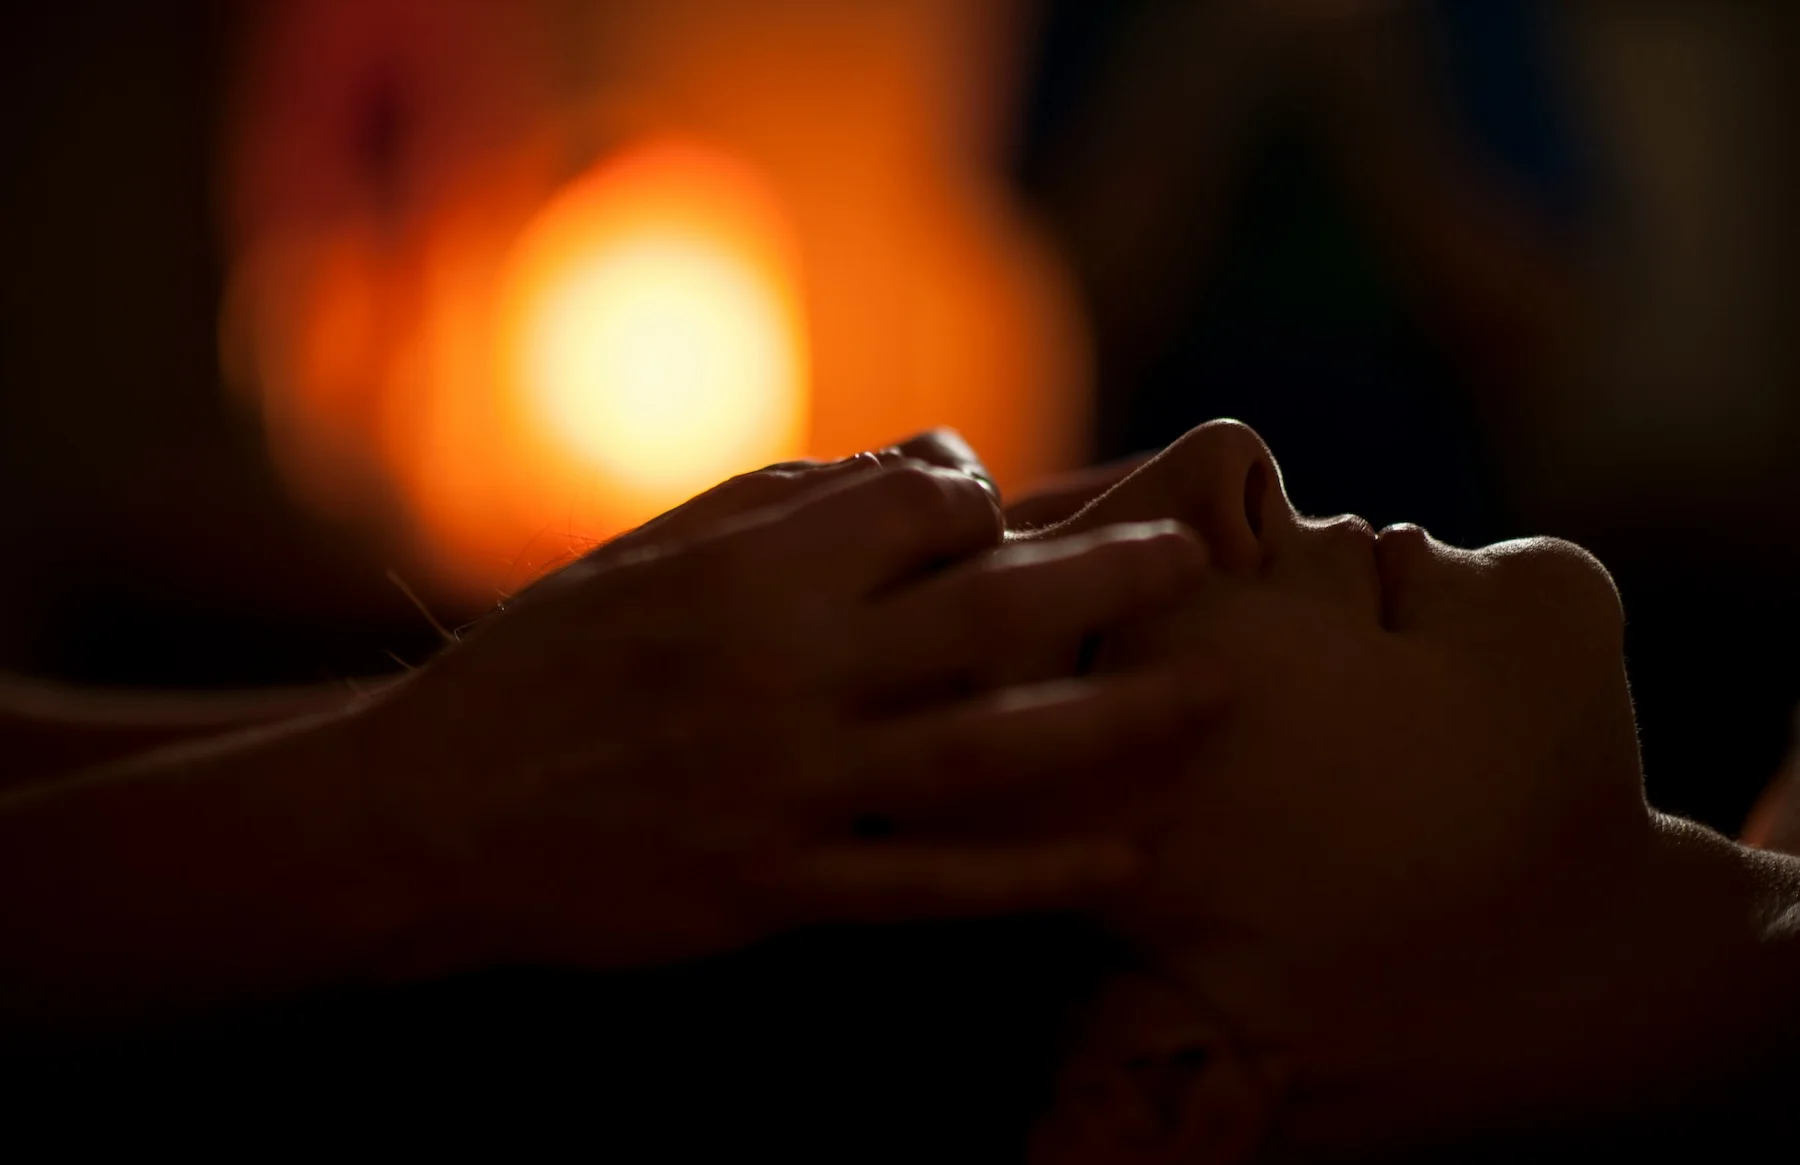
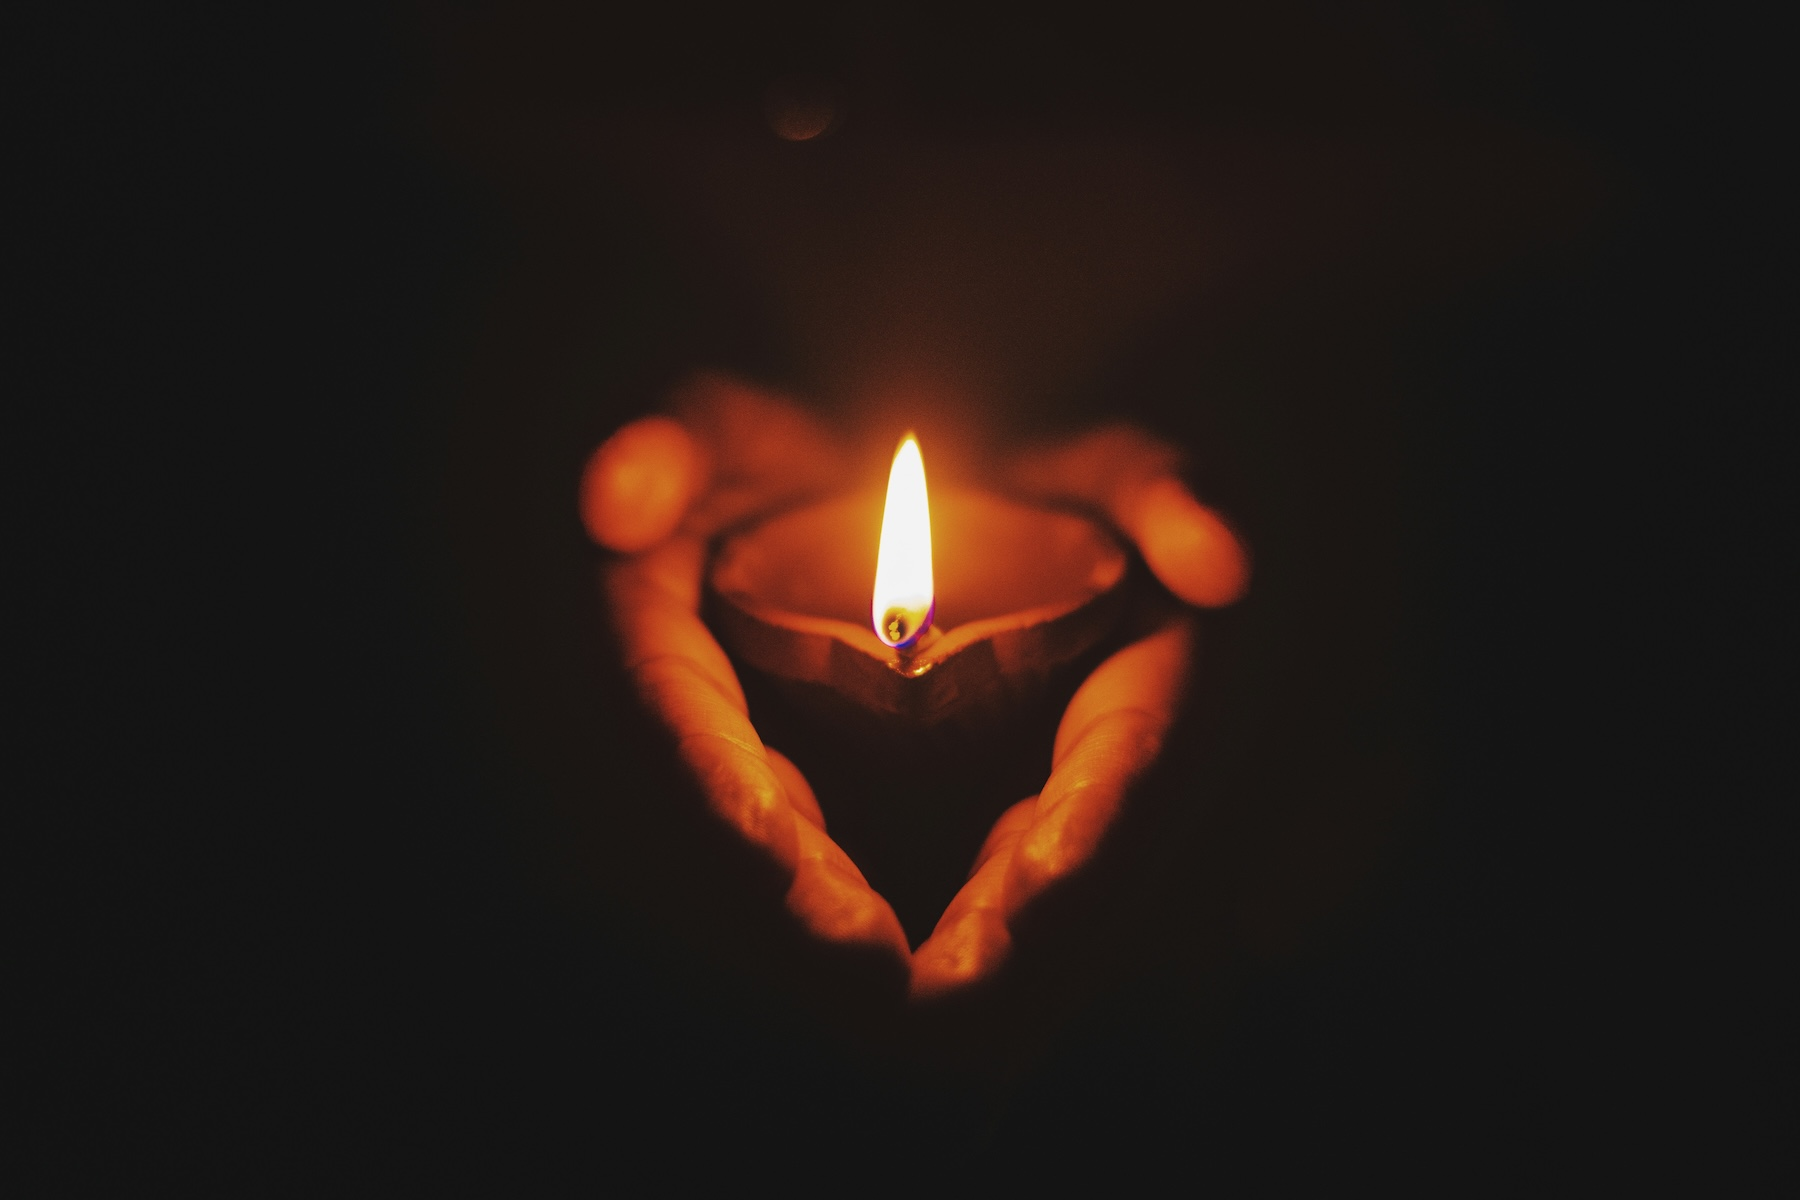
Update service offerings and content across multiple files, including renaming "Massage Therapy" to "Ritual Bodywork" and adjusting related details.

diff --git a/src/content.config.ts b/src/content.config.ts
@@ -54,16 +54,16 @@ const services = defineCollection({
 const home = defineCollection({
   loader: glob({ pattern: 'home.json', base: './src/content' }),
   schema: z.object({
-    heroEyebrow: z.string(),
-    heroHeading: z.string(),
-    heroBody: z.string(),
-    heroCta1Label: z.string(),
-    heroCta1Href: z.string(),
-    heroCta2Label: z.string(),
-    heroCta2Href: z.string(),
-    aboutHeading: z.string(),
+    heroEyebrow: z.string().optional().default(''),
+    heroHeading: z.string().optional().default(''),
+    heroBody: z.string().optional().default(''),
+    heroCta1Label: z.string().optional().default(''),
+    heroCta1Href: z.string().optional().default(''),
+    heroCta2Label: z.string().optional().default(''),
+    heroCta2Href: z.string().optional().default(''),
+    aboutHeading: z.string().optional().default(''),
     aboutBodies: z.array(z.string()).optional().default([]),
-    servicesHeading: z.string(),
+    servicesHeading: z.string().optional().default(''),
     servicesIntro1: z.string().optional().default(''),
     servicesIntro2: z.string().optional().default(''),
     servicesIntro3: z.string().optional().default(''),

diff --git a/src/content/testimonials/jess-m.md b/src/content/testimonials/jess-m.md
@@ -1,6 +1,6 @@
 ---
 name: Jess M.
-service: Massage Therapy
+service: Ritual Bodywork
 featured: false
 ---
 **Capri is an absolute gem. The best massage I’ve ever received.**